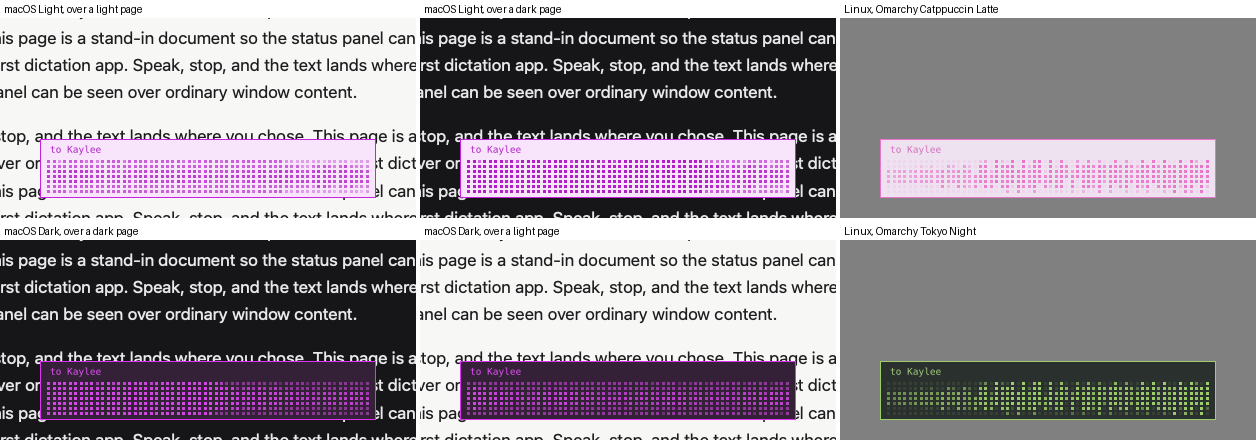
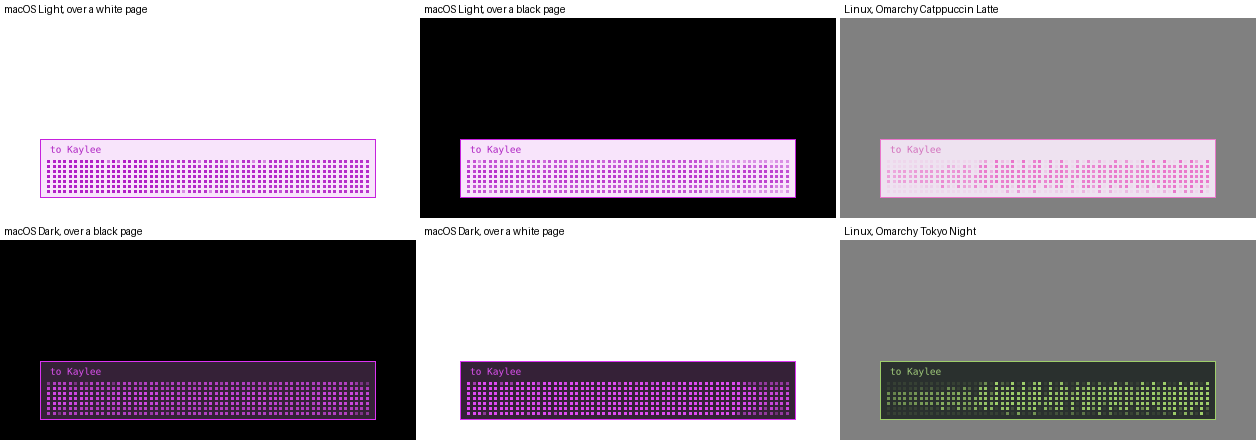
docs(evidence): measure the macOS HUD frame over white and black pages

diff --git a/docs/evidence/verify-cantrip/2026-11-02-macos-hud-omarchy/README.md b/docs/evidence/verify-cantrip/2026-11-02-macos-hud-omarchy/README.md
@@ -7,7 +7,7 @@ person or private audio is recorded here: speech is the public
 ## Setup
 
 - **Build:** `python3 scripts/package-macos --target aarch64-apple-darwin --ad-hoc`
-  from `04e6fcd` (`source_tree_dirty: false`), installed in a disposable
+  from `3625fd0` (`source_tree_dirty: false`), installed in a disposable
   `macvm` guest (macOS 27.0, 26A428, 1440×900 at 1x).
 - **Audio:** BlackHole 2ch from Homebrew, `audio_source = "BlackHole2ch_UID"`,
   system output routed to BlackHole, `afplay samples/jfk.wav`. Microphone access
@@ -18,8 +18,8 @@ person or private audio is recorded here: speech is the public
   (label "Kaylee") runs a script that discards the text and fails while a flag
   file exists (handoff failure). Takes were driven with `cantrip start`,
   `start --handoff pepper`, `stop` and `cancel`.
-- **Backdrops:** Safari zoomed over the screen with a light page (#f7f7f5) or a
-  dark page (#161618). Light and Dark were switched in System Settings →
+- **Backdrops:** Safari zoomed over the screen with a plain white (#ffffff) or
+  black (#000000) page. Light and Dark were switched in System Settings →
   Appearance.
 - **Captures:** guest `screencapture`, cropped to the same 416×200 box around
   the panel at native 1x pixels.
@@ -28,13 +28,40 @@ person or private audio is recorded here: speech is the public
   layer surface in headless sway at scale 1. Themes are Omarchy's
   `tokyo-night` and `catppuccin-latte` `colors.toml` at basecamp/omarchy
   `a69b19f`. The renders are the layer surface's own pixels, shown over flat
-  gray. They are the production fixtures the HUD gallery replays.
+  gray. They are the production fixtures the HUD gallery replays. `3625fd0`
+  changes no Linux color, so these renders from `04e6fcd` still apply.
+
+## The frame
+
+![Frame](compare-frame.png)
+
+Each panel in the default flow with its top-left corner enlarged 6×
+([compare-frame.png](compare-frame.png)). Every pixel of the frame's 1-point
+ring is one color. Ratios are WCAG contrast against the panel's surface just
+inside the ring and the page just outside it.
+
+| Appearance | Frame | On the surface | On a white page | On a black page |
+| --- | --- | --- | --- | --- |
+| Light | #949494 | 3.03:1 (#ffffff) | 3.03:1 | 6.92:1 |
+| Dark | #696969 | 3.04:1 (#1e1e1e) | 5.49:1 | 3.83:1 |
+| Light, handoff to Kaylee | #c621dd | 3.75:1 (wash #f8e4fb) | 4.50:1 | 4.66:1 |
+| Dark, handoff to Kaylee | #db34f2 | 4.06:1 (wash #352137) | 3.63:1 | 5.79:1 |
+
+The same values were measured in the recording, processing and failure
+captures. Before `3625fd0` the default frame was AppKit's separator color,
+#e6e6e6 in Light (1.25:1 on the surface and on a white page) and #343434 in
+Dark (1.34:1). The macOS palette now fits that frame token to 3:1 against its
+surfaces by changing only lightness.
+
+On Linux the same token comes from the Omarchy theme's `muted` color and is
+drawn as the theme gives it: #414868 on #1a1b26 in Tokyo Night and #acb0be on
+#eff1f5 in Catppuccin Latte, both 1.91:1 on the surface.
 
 ## Side by side
 
-Each sheet: top row macOS Light over a light page, over a dark page, and Linux
-Catppuccin Latte; bottom row macOS Dark over a dark page, over a light page, and
-Linux Tokyo Night.
+Each sheet: top row macOS Light over a white page, over a black page, and
+Linux Catppuccin Latte; bottom row macOS Dark over a black page, over a white
+page, and Linux Tokyo Night.
 
 | State | Sheet |
 | --- | --- |
@@ -48,8 +75,6 @@ Linux Tokyo Night.
 | Failure auto-hide | [failure-auto-hide.png](failure-auto-hide.png) |
 | Full screen, downscaled to 50% | [Light](context-light-failure.png), [Dark](context-dark-failure.png) |
 
-![Handoff failure](compare-handoff-failure.png)
-
 The Linux `handoff-sent` fixture paints the frame before the success result is
 presented (full field, no caption), so that column is not the same moment as
 the macOS capture.
@@ -58,15 +83,14 @@ the macOS capture.
 
 - **Square corners.** Differencing each capture against the same page without
   the panel gives exactly the container rectangle, 336×44 to 336×160 points;
-  nothing outside it changes, including the panel's clear margins. All four
-  corner pixels of every container are its edge color (#e6e6e6 Light,
-  #343434 Dark), the route color (#c621dd Light, #db34f2 Dark) or the
-  attention rail. None shows the page behind.
+  nothing outside it changes, including the panel's clear margins. Every corner
+  pixel is the frame, route or attention-rail color; none shows the page.
 - **Opaque surface.** The failure and handoff-failure containers are
-  pixel-identical over the light page and over the dark page: 0 of 53,760 and
+  pixel-identical over the white page and over the black page: 0 of 53,760 and
   0 of 48,384 pixels differ, in Light and in Dark.
-- **Contrast of the drawn colors** (pixels the painter fills completely; WCAG
-  formula):
+- **Contrast of the drawn colors** (pixels the painter fills completely;
+  measured on the `04e6fcd` captures, whose surfaces and colors `3625fd0`
+  leaves unchanged):
 
   | Color | Light | Dark |
   | --- | --- | --- |
@@ -75,15 +99,15 @@ the macOS capture.
   | Field, fully lit | #0072ef on #ffffff, 4.51:1 | #1183ff on #1e1e1e, 4.54:1 |
   | Handoff field, fully lit, on the wash | #b11ec6 on #f8e4fb, 4.52:1 | #df4af3 on #352137, 4.50:1 |
 
-  Before this change's wash fit, the Light attention color #be5900 would read
-  3.79:1 on that wash. Glyph pixels at 1x are antialiased, so their darkest
-  pixel understates the text color: title lines measure 14.55:1 (Light) and
-  12.16:1 (Dark) on the surface, and 12.11:1 and 10.65:1 on the wash; the
-  10–11 px label and action lines measure 3.4–4.4:1 at their darkest pixel.
-  Their colors are fitted to 4.5:1 by
+  Without the wash fit, the Light attention color #be5900 would read 3.79:1 on
+  that wash. Glyph pixels at 1x are antialiased, so their darkest pixel
+  understates the text color: title lines measured 14.55:1 (Light) and 12.16:1
+  (Dark) on the surface, and 12.11:1 and 10.65:1 on the wash; the 10–11 px
+  label and action lines measured 3.4–4.4:1 at their darkest pixel. Their
+  colors are fitted to 4.5:1 by
   `a_handoff_take_reads_at_4_5_to_1_on_its_washed_surface`.
-- **Focus.** `lsappinfo front` named Safari while idle, while recording, while
-  the failure showed and after it hid.
+- **Focus** (`04e6fcd`). `lsappinfo front` named Safari while idle, while
+  recording, while the failure showed and after it hid.
 - **Failure auto-hide.** In all four backdrop runs the failure was on screen
   2.5 s after `stop` and gone at 12 s, while `cantrip status` still reported the
   undismissed failed outcome.
@@ -95,6 +119,3 @@ the macOS capture.
   minimum stays 13.3.
 - Increase Contrast and Reduce Transparency, which no longer change the panel's
   backdrop; Increase Contrast still changes the AppKit colors it resolves.
-- The macOS edge is AppKit's separator color: #e6e6e6 on the white surface
-  (1.25:1) in Light and #343434 on #1e1e1e (1.34:1) in Dark, fainter than
-  Omarchy's `muted` border on Linux.
